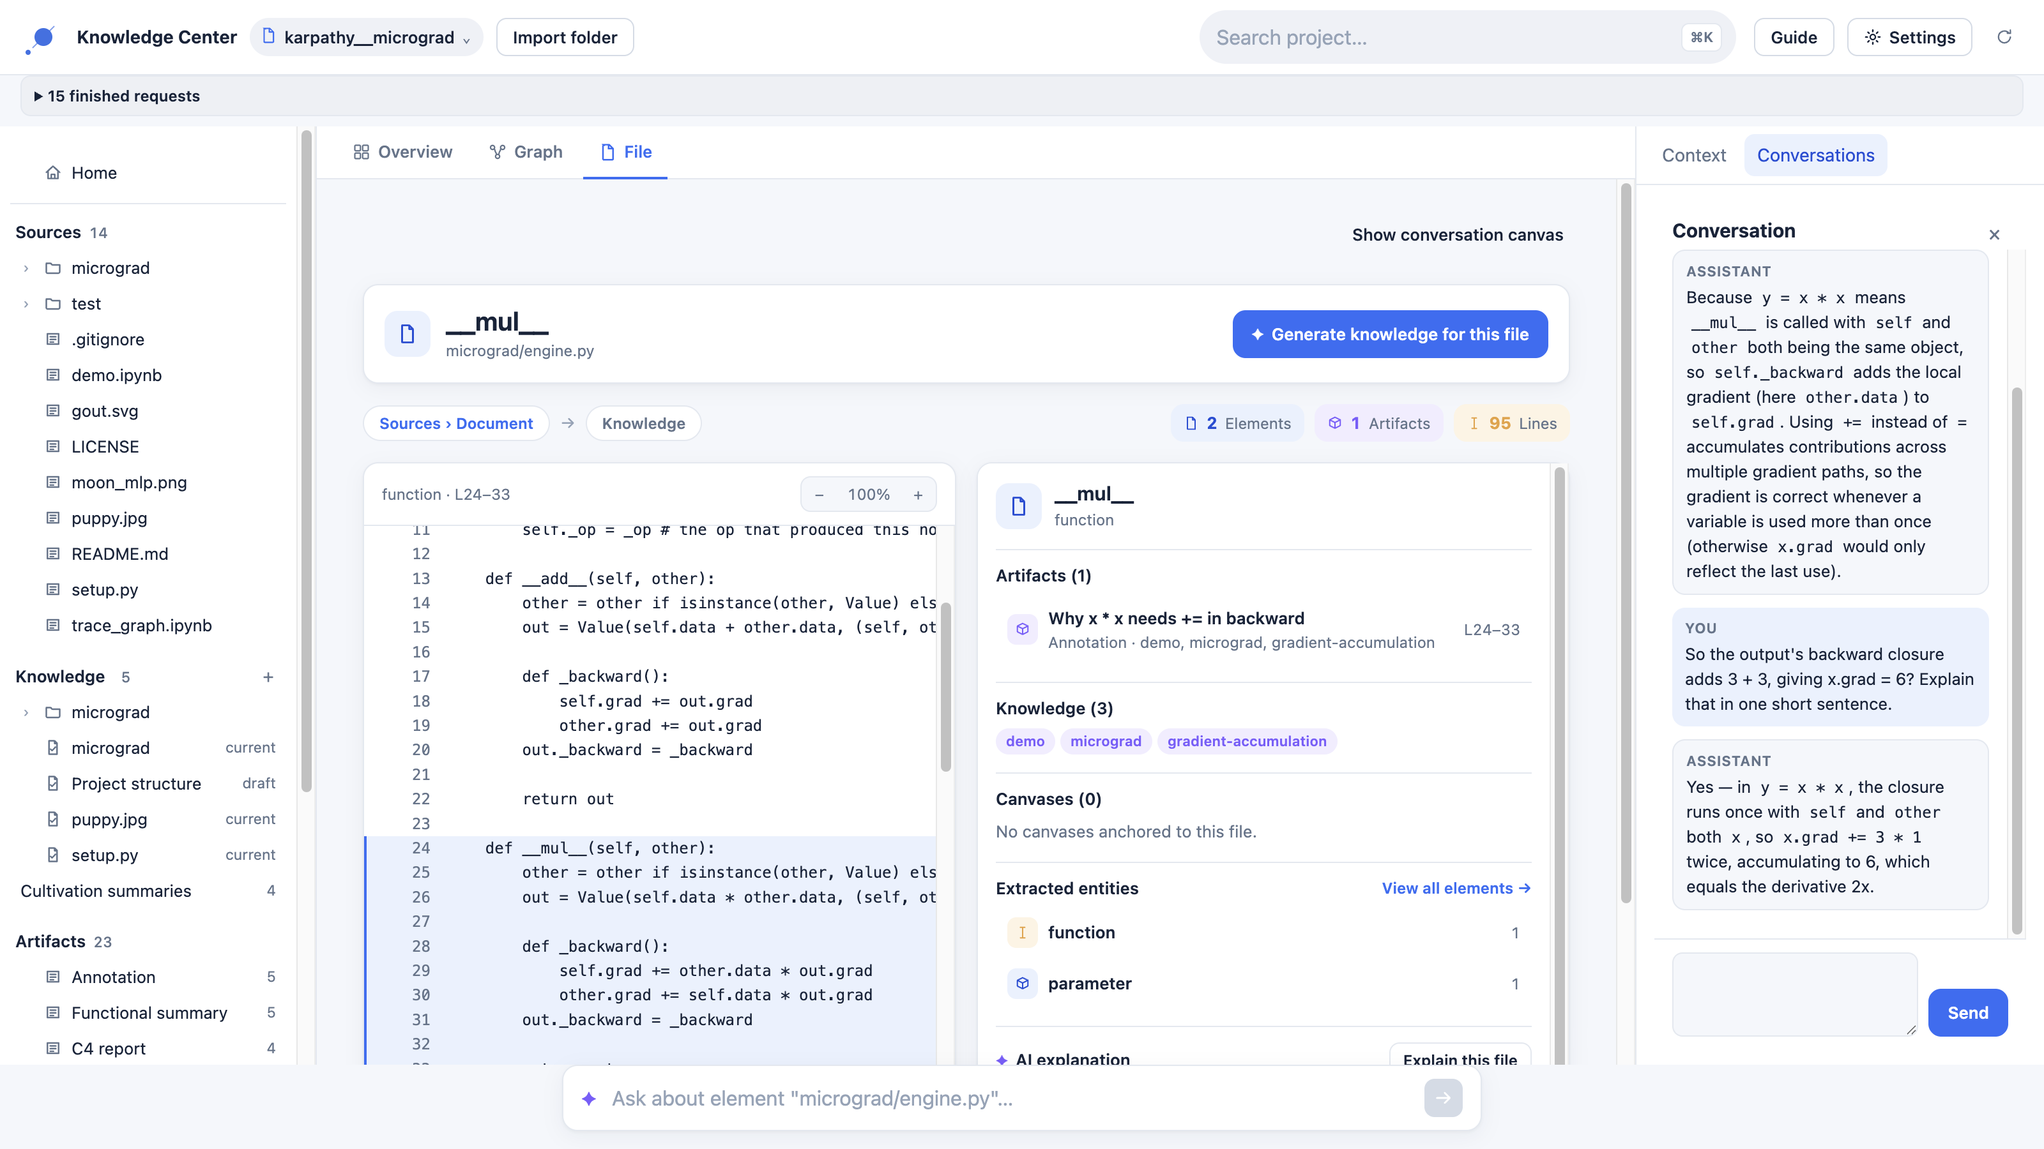
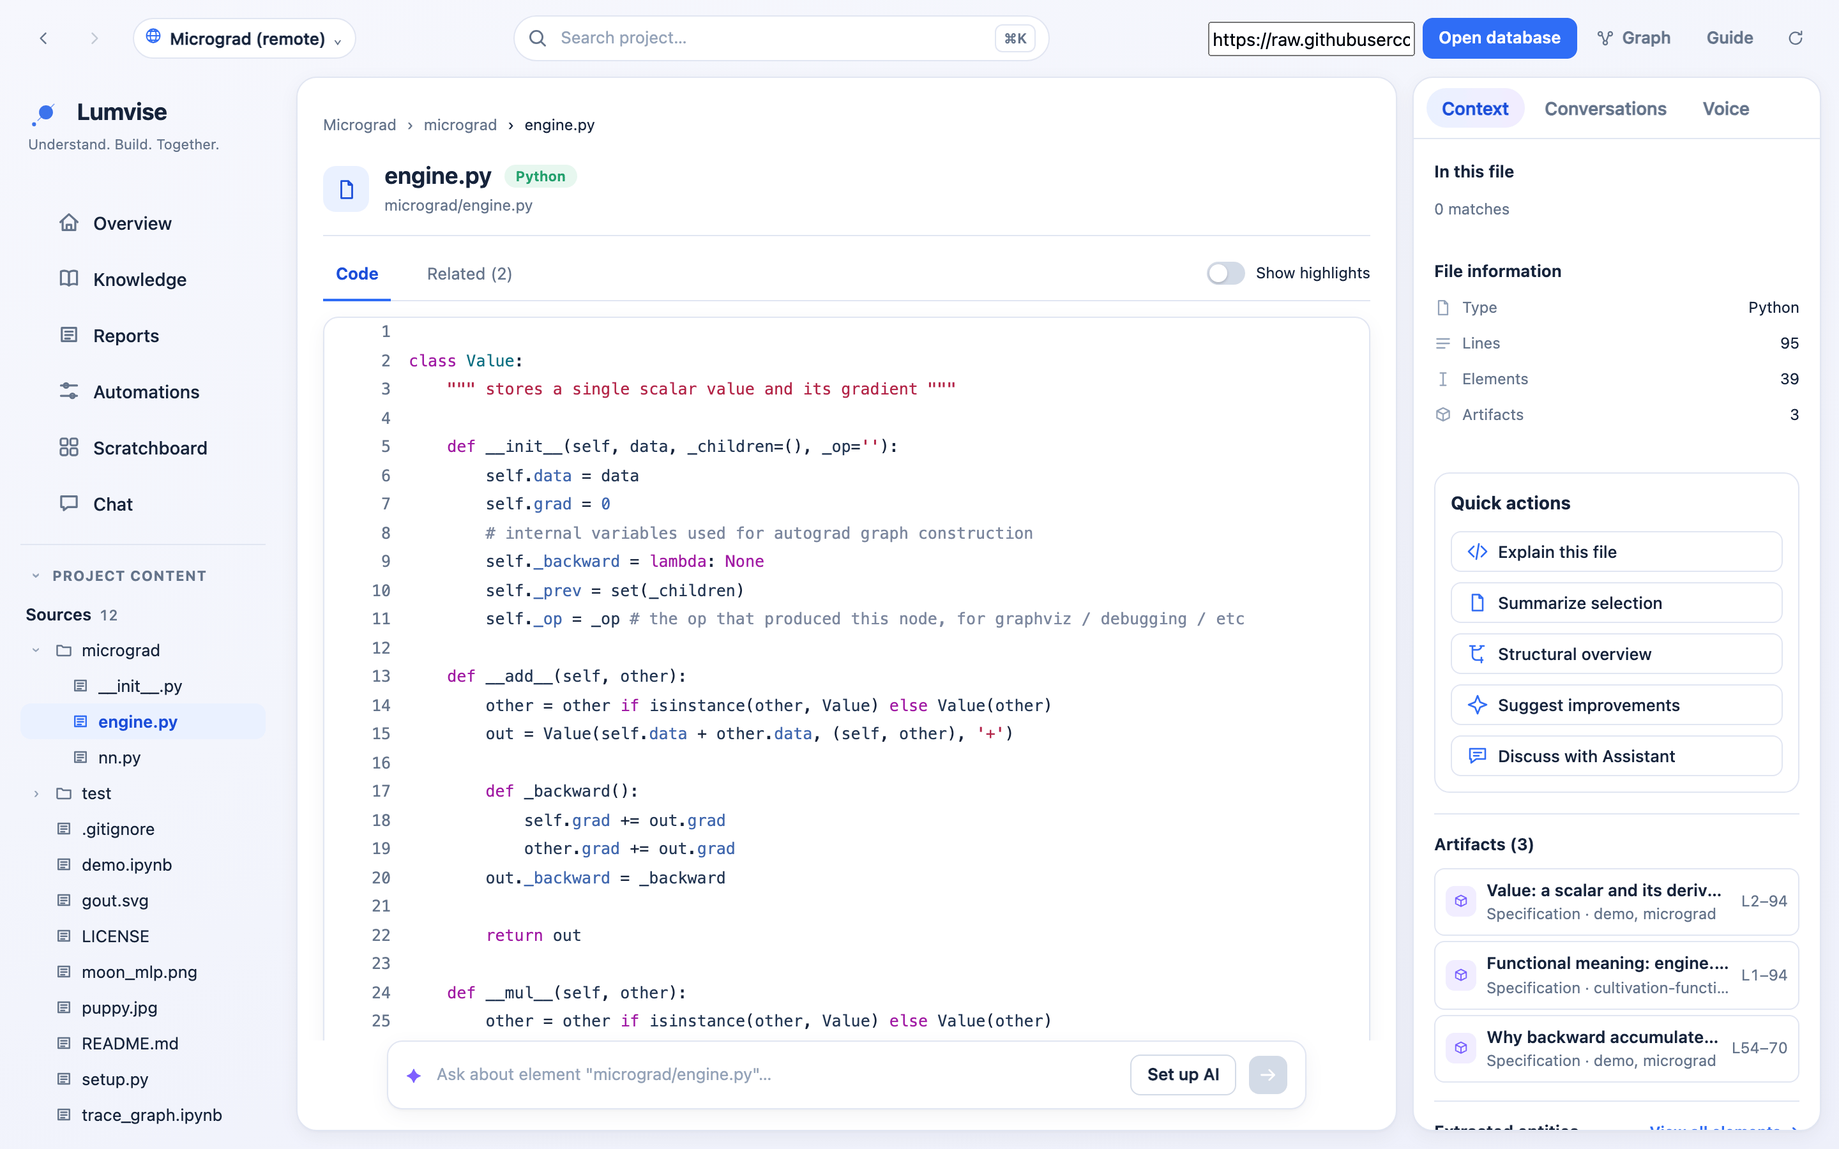
Present Lumvise 0.2.0 in the README
Tell the 0.2.0 story around one place for project knowledge, memory shared
by people and agents, automatic reports through Automations, an Assistant
you can talk to, and context attached to the semantic structure. Offer the
macOS, Linux and Windows downloads with the fresh-database note, and update
the editions, plugins and MCP sections for 0.2.0.

The screenshots are actual 0.2.0 views of the Micrograd and Earth
Observatory demos in the online viewer, and of Automations in the desktop
Workspace.

diff --git a/README.md b/README.md
@@ -2,30 +2,116 @@
 
 # Lumvise
 
-**Explore your project. Talk it through. Keep the knowledge.**
+**Your project's knowledge, in one place, for you and your agents.**
 
-Lumvise brings source files, project relationships, AI conversations, and saved
-knowledge into one workspace. Understand unfamiliar code, sketch an idea with
-your Assistant, and keep the useful explanation beside the source it describes.
-The next conversation or connected agent can build on what you already learned.
+Lumvise keeps source files, documents, media, saved knowledge and conversations
+in one workspace on your computer. People and connected AI agents read and write
+the same project memory through MCP, background agents keep reports up to date,
+and you can talk the project through with an Assistant that draws on a
+whiteboard.
 
-[Download for macOS](https://github.com/Lumvise/lumvise-main/releases/latest) ·
-[Watch the demo](#see-it-in-action) · [Features](#what-you-can-do) ·
+## Download Lumvise 0.2.0
+
+| Platform | Edition | Package |
+| --- | --- | --- |
+| macOS 14 or later, Apple Silicon | Full and Community | DMG |
+| Linux x64 | Full | AppImage |
+| Windows 10 or later, x64 | Full | Installer or portable ZIP |
+
+[**Download Lumvise 0.2.0**](https://github.com/Lumvise/lumvise-main/releases/latest)
+from the latest release. Each download has a SHA-256 checksum file and ships
+with signed plugins. Windows builds are not code-signed, so Windows shows a
+warning for unknown software; see the [platform notes](#platform-notes). Not sure which edition you need? See
+[Choose an edition](#choose-an-edition).
+
+Lumvise 0.2.0 starts with a fresh database and does not open data from earlier
+versions. Follow the steps under "Before you update" in the
+[0.2.0 release notes](https://github.com/Lumvise/lumvise-main/releases/tag/v0.2.0)
+before you start it.
+
+**New in 0.2.0**
+
+- Reusable background agents and Automations that run on schedules or watches
+  (Full).
+- Documents that cite code, Knowledge records and other documents.
+- Notes on image regions and on audio and video time segments.
+- History and retention for Knowledge records and project content.
+- A redesigned Workspace: Overview, Knowledge, Reports, Automations, Scratchboard
+  and Chat.
+- An Assistant that queues requests instead of refusing them while it is busy.
+
+[Watch the demo](#an-assistant-you-can-talk-to) ·
 [Explore a graph online](https://lumvise.com/workspace?repo=https%3A%2F%2Fraw.githubusercontent.com%2FLumvise%2Flumvise-main%2Fmain%2Fdemos%2Fhuggingface__safetensors%2F.lv%2Fgraph.pz) ·
 [Choose an edition](#choose-an-edition) ·
 [Contributing](#contributing)
 
-![Lumvise Workspace showing micrograd source, knowledge attached to a function, and an Assistant conversation side by side](assets/readme/workspace.png)
+![The Lumvise Workspace on the micrograd demo: destinations in the left sidebar, engine.py in the centre and its attached Knowledge in the right inspector](assets/readme/workspace.png)
 
-*Source, knowledge, and conversation in the same view. Desktop screenshots show
-the Full edition; Community provides the same local Knowledge and Semantic
-capabilities through MCP.*
+*The Workspace on the micrograd demo: destinations on the left, `engine.py` in
+the middle, and the Knowledge attached to it with quick actions on the right.
+Actual Lumvise app views; the Automations screenshot comes from the desktop
+Full edition, and Community provides the local Knowledge and Semantic
+capabilities through MCP. [Media credits](assets/readme/credits.txt).*
 
-## See it in action
+## Your knowledge in one place
 
-**Talk it through, with the explanation in view.** This short screen recording
-shows the Assistant speaking beside its interactive whiteboard. Follow a
-technical explanation with a diagram you can inspect, annotate, and discuss.
+A project is more than its code. Lumvise brings source files, documents, images,
+audio and video, saved Knowledge and your conversations into one Workspace, so
+you do not have to search several tools for the reasoning behind a file.
+
+Browse a folder, open a file or a PDF, preview media, and see the Knowledge
+attached to each. Save an explanation, a decision, a specification or a report
+where it belongs, and find it again next to the source it describes.
+
+The [Earth Observatory demo](demos/earth-observatory/) shows this beyond code: a
+research collection with a PDF, CSV measurements, geographic records, imagery,
+audio and video. Its guide explains the example annotations and each source's
+provenance.
+
+## Shared project memory for people and agents
+
+Lumvise keeps project memory local first. The database lives on your computer,
+and any MCP-capable editor or AI client can connect to it to inspect project
+structure and create or retrieve Knowledge. What you or one agent saved is
+there for the next person or agent, with no copy-and-paste between tools. See
+[Connect an MCP client](#connect-an-mcp-client).
+
+A project can also travel as a portable `.pz` snapshot, like the demo graphs in
+this repository. Others open it in the online graph viewer and explore it in a
+browser without installing Lumvise.
+
+[Explore the Safetensors demo online](https://lumvise.com/workspace?repo=https%3A%2F%2Fraw.githubusercontent.com%2FLumvise%2Flumvise-main%2Fmain%2Fdemos%2Fhuggingface__safetensors%2F.lv%2Fgraph.pz)
+without installing the desktop app.
+
+## Automatic reports with Automations
+
+*Full edition.* Background agents work on the project while you do something
+else. An agent is a shared worker with its own model, permissions, documents and
+queue. An Automation decides when and what: each has its own name, schedule,
+watches, task and actions. Run one weekly at a set time in your time zone or when
+something it watches changes, and let it keep a generated report or document up
+to date. Several Automations can share one agent, or each can use its own.
+
+An Automation can send a message to a recipient you choose, another agent or the
+project's Assistant inbox. The agent writes the content but cannot pick a
+different recipient. Messages in the Assistant inbox do not start a
+conversation or speak.
+
+![The Automations screen in the Lumvise Workspace listing two disabled Automations, Docs check and Weekly coverage report, with the schedule and agent of Docs check](assets/readme/automations.png)
+
+*The Automations screen: each Automation shows its schedule, its agent and its
+state. These two belong to a demo agent and are disabled.*
+
+## An Assistant you can talk to
+
+*Full edition.* Ask the Assistant by voice or by text. It answers aloud beside
+an interactive whiteboard, so you can follow a technical explanation with a
+diagram you can inspect, annotate and discuss. Turn voice off to continue in
+text. Save a whiteboard you want to keep, archive a conversation when you are
+done, and reopen it later.
+
+If the Assistant is busy, your request is queued and started when it is free.
+Agents ask you questions through the same queue.
 
 [![An actual video frame of Lumvise's Assistant whiteboard, comparing three dependency updates and summarizing their validation](assets/readme/assistant-preview.png)](assets/readme/lumvise-assistant.mp4)
 
@@ -45,76 +131,46 @@ The canvas toolbar provides drawing, text, color, and zoom controls.
 
 </details>
 
-## What you can do
-
-| Capability | What it makes possible |
-| --- | --- |
-| **Explore a project** | Browse files and semantic elements, follow relationships in a graph, and find the knowledge attached to a source. |
-| **Talk and think visually** | Ask the Assistant by voice or text, explain an idea on a whiteboard, and work with a canvas inside your conversation. |
-| **Keep useful reasoning** | Save explanations, decisions, specifications, reports, and tasks on the file, function, or project they describe. |
-| **Work beyond code** | Explore documents and preview PDFs, images, audio, and video alongside the knowledge attached to them. |
-| **Give agents project context** | Connect an MCP-capable editor or AI client to inspect project structure and create or retrieve saved knowledge. |
-| **Extend the workspace** | Add capabilities through signed, separately installed plugins, or build a plugin with the public SDK. |
-
-Full includes the graphical workspace, whiteboard, media previews, and voice and
-text Assistant. Both editions share the local database, Semantic and Knowledge
-plugins, and MCP access. See [the edition comparison](#choose-an-edition).
-
-### See how the project fits together
-
-Move from a folder or file to its semantic elements and relationships. Use the
-graph to explore a project, then inspect the source and its saved knowledge.
-
-[Explore the Safetensors demo online](https://lumvise.com/workspace?repo=https%3A%2F%2Fraw.githubusercontent.com%2FLumvise%2Flumvise-main%2Fmain%2Fdemos%2Fhuggingface__safetensors%2F.lv%2Fgraph.pz)
-without installing the desktop app.
-
-### Discuss an idea, then keep what matters
-
-Start a conversation about the project or the source you are inspecting. Type a
-question or talk it through by voice; use the conversation canvas for diagrams
-and visual explanations. Turn voice off to continue in text. Save a canvas you
-want to keep, and save useful conclusions as project knowledge. Archive a
-conversation when you are done, and reopen it to continue later.
-
-An explanation can belong to one function. An architecture decision can belong
-to a module. A research note can belong to its source document. That gives the
-next person or connected agent a place to find the reasoning.
-
-![A saved explanation open in Lumvise, with its source attachment, tags, and dependency visible in the context panel](assets/readme/saved-knowledge.png)
-
-*The explanation stays attached to its source after the conversation ends.
-Saved knowledge can be retrieved through another MCP session.*
-
-### Bring documents and media into the same project
-
-Project context also includes the material around the code: specifications,
-research documents, measurements, illustrations, and recordings. Browse those
-sources and keep their definitions, annotations, and decisions together.
-
-The [Earth Observatory demo](demos/earth-observatory/) shows a research collection
-with a PDF, CSV measurements, geographic records, imagery, audio, and video.
-Its guide explains the example annotations and each source's provenance.
-
-[![Lumvise displaying a PDF alongside its saved annotations and extracted passages in the Earth Observatory demo](assets/readme/documents.png)](https://lumvise.com/workspace?repo=https%3A%2F%2Fraw.githubusercontent.com%2FLumvise%2Flumvise-main%2Fmain%2Fdemos%2Fearth-observatory%2F.lv%2Fgraph.pz)
-
-*A source document, its passages, and its annotations in one view.
-[Explore the research demo online](https://lumvise.com/workspace?repo=https%3A%2F%2Fraw.githubusercontent.com%2FLumvise%2Flumvise-main%2Fmain%2Fdemos%2Fearth-observatory%2F.lv%2Fgraph.pz).*
-
-### Try a conversation like this
+Things to ask:
 
 - **Understand a new repository:** “Find the module that owns this behavior and
   explain how its main pieces connect.”
-- **Make architecture visible:** “Sketch this request flow on the canvas and
+- **Make architecture visible:** “Sketch this request flow on the whiteboard and
   walk me through each step.”
 - **Keep a decision:** “Save why we chose this design, with the tradeoffs, and
   attach it to the module it affects.”
 - **Review research:** “Summarize this document and separate the evidence from
   what we still need to check.”
-- **Continue with another agent:** “Find the saved explanation for this function
-  and use it as context before suggesting a change.”
 
-Use the visual prompts in Full. Project structure and saved-knowledge prompts
-also work through a [connected MCP client](#connect-an-mcp-client).
+## Project context attached to the code
+
+Knowledge is pinned to the exact place it describes: a function, a line range,
+an image region, or a segment of an audio or video file. The semantic graph shows
+how files, functions and other elements relate, so you can move from a
+folder to an element, follow its relationships, and read the Knowledge attached
+to it. Documents can cite code and Knowledge records, so a report links back to
+its evidence.
+
+![The micrograd engine.py with lines 54 to 70 highlighted and the Knowledge record "Why backward accumulates gradients" selected in the inspector](assets/readme/semantic-context.png)
+
+*A Knowledge record pinned to `backward()` in `micrograd/engine.py` (lines 54–70):
+it stays attached to the function after the conversation ends, and another MCP
+session can retrieve it.*
+
+[![The Earth Observatory knowledge overview report with its Knowledge map linking each cited record](assets/readme/documents.png)](https://lumvise.com/workspace?repo=https%3A%2F%2Fraw.githubusercontent.com%2FLumvise%2Flumvise-main%2Fmain%2Fdemos%2Fearth-observatory%2F.lv%2Fgraph.pz)
+
+*A report document whose Knowledge map links every record it cites.
+[Explore the research demo online](https://lumvise.com/workspace?repo=https%3A%2F%2Fraw.githubusercontent.com%2FLumvise%2Flumvise-main%2Fmain%2Fdemos%2Fearth-observatory%2F.lv%2Fgraph.pz).*
+
+![observation-islands.png in the Earth Observatory demo with the central mountain region outlined and its media note selected in the inspector](assets/readme/media-notes.png)
+
+*A media note on an image region: the outlined mountain belongs to the selected
+note. Notes can also pin to an audio or video time segment.*
+
+Knowledge uses three kinds: `requirements`, `specification` and `media`.
+Reports and context are documents. Knowledge records and project content keep
+their revisions, and a project's retention setting decides how much history is
+kept.
 
 ## Try a graph online
 
@@ -124,15 +180,14 @@ repository, so you can explore it without installing the desktop app.
 
 ## Choose an edition
 
-Choose how you interact with Lumvise. Both editions share the local database,
-Knowledge and Semantic plugins, and MCP access. They use the same foundation for
-project and knowledge workflows; Full adds the graphical interfaces and desktop
-Assistant experience.
+Both editions share the local database, Knowledge and Semantic plugins, and MCP
+access. Full adds the graphical workspace, Automations and the desktop
+Assistant.
 
 | Edition | How you use it | What is included | Source license |
 | --- | --- | --- | --- |
 | **Community** | Through an MCP-capable editor or AI client | Headless runtime, local database, MCP access, Knowledge and Semantic plugins | MIT core; LGPL-3.0-only public plugins |
-| **Full** | Through the desktop app or an MCP client | Community capabilities, plus the graphical workspace, whiteboard, voice and text Assistant, and conversation canvases | Proprietary desktop application; included open-source components retain their licenses |
+| **Full** | Through the desktop app or an MCP client | Community capabilities, plus the graphical workspace, Automations, whiteboard, voice and text Assistant, and seven built-in plugins (Agents, Assistant, Canvas, Challenges, Knowledge, Nucleus, Semantic) | Proprietary desktop application; included open-source components retain their licenses |
 
 Use Community when your MCP client is your interface. Use Full when you also
 want to explore and discuss the same project knowledge visually. Community has
@@ -141,22 +196,30 @@ no desktop window; Full also supports MCP access.
 This repository contains the Community source. The full application's
 proprietary source and internal implementation documentation stay private.
 
-### Signed macOS release
+### Platform notes
 
-[Download the latest macOS release](https://github.com/Lumvise/lumvise-main/releases/latest)
-for **Apple Silicon Macs running macOS 14 or newer**. Full and Community DMGs
-are available; this release provides macOS installers only.
+Packages are listed on the
+[latest release](https://github.com/Lumvise/lumvise-main/releases/latest).
 
-Both editions are **Developer ID signed and Apple-notarized**, with notarization
-tickets stapled to the apps and DMGs. Each download includes a matching SHA-256
-checksum file. The release notes identify the source commit and completed
-signature, Gatekeeper, integrity, and packaged command-line checks.
+- **macOS:** Apple Silicon Macs running macOS 14 or newer. Full and Community
+  DMGs are Developer ID signed and Apple-notarized, with notarization tickets
+  stapled to the apps and DMGs.
+- **Linux:** the Full AppImage is built against an Ubuntu 22.04 baseline. Make it
+  executable, then run it. AppImages need FUSE; without it, start the file with
+  `--appimage-extract-and-run`. Inference runs on the CPU. The tray icon needs a
+  desktop panel with a status tray. The floating orb needs X11 or XWayland;
+  Wayland sessions are untested.
+- **Windows:** Windows 10 or later on x64. Use the installer or the portable ZIP.
+  The installer and the program are not code-signed; choose **More info**, then
+  **Run anyway** when Windows warns about unknown software. The installer adds
+  the Microsoft WebView2 runtime if it is missing; the portable ZIP needs it
+  installed already. Inference runs on the CPU.
 
 ## Build from source
 
 Install the current stable Rust toolchain, a C/C++ toolchain, CMake and
 Protobuf's `protoc`.
-The macOS installer targets Apple Silicon and macOS 14 or newer.
+The bundled macOS installer script targets Apple Silicon and macOS 14 or newer.
 
 ```sh
 git clone https://github.com/Lumvise/lumvise-main.git
@@ -207,8 +270,8 @@ formats vary; preserve the command and arguments when adapting this example.
 
 Once the project is imported and indexed, try:
 
-> Find the module that owns authentication. Create a decision artifact explaining
-> why tokens expire after one hour, attach it to that module, and read it back.
+> Find the module that owns authentication. Save a specification explaining why
+> tokens expire after one hour, attach it to that module, and read it back.
 
 Knowledge and Semantic tools return the real artifact and element identifiers.
 Use those identifiers when assigning knowledge, rather than guessing paths or
@@ -245,12 +308,17 @@ restrictions do not limit rights in the included open-source components.
 
 ## Plugins
 
-Community includes two plugins:
+Community includes two plugins. Full bundles seven built-ins: Agents, Assistant,
+Canvas, Challenges, Knowledge, Nucleus and Semantic. All built-in plugins are
+version 0.2.0 and use plugin protocol 7.
 
 | Plugin | Purpose | License |
 | --- | --- | --- |
 | Knowledge | Create, retrieve and assign typed project knowledge | LGPL-3.0-only |
 | Semantic | Index and explore code elements and relationships | LGPL-3.0-only |
+
+Connected agents that update the semantic index call `observe_index_base` first
+and pass its result to `ingest_index_batch`; the tool descriptions explain this.
 
 Plugins run as separate executables. The MIT-licensed SDK owns the Protobuf
 handshake, framing, host calls and shutdown. Packages contain a signed manifest,
@@ -333,7 +401,7 @@ capabilities. Do not log credentials or place signing material in packages.
 Search with `app_plugin.builtin.semantic.search_graph`, using `project_root`
 and a name or path filter. Copy a returned `semantic_element_id`. Pass that ID,
 the project root, an artifact ID, title, content and a supported knowledge type
-to `app_plugin.builtin.knowledge.create_knowledge`. Retrieve it using
+(`requirements`, `specification` or `media`) to `app_plugin.builtin.knowledge.create_knowledge`. Retrieve it using
 `get_knowledge`, or inspect the element's assignments using
 `list_knowledge_for_element`.
 
@@ -358,7 +426,8 @@ remain MIT; each third-party component retains its own license.
 
 Lumvise Community is the headless edition. It installs the local Lumvise MCP
 server and the Knowledge and Semantic built-in plugins. It does not open a
-desktop window.
+desktop window. `scripts/build-macos-installer` builds the Community installer
+from this repository; the Linux and Windows downloads are Full builds.
 
 <details>
 <summary>Build, sign, and install a macOS package</summary>
